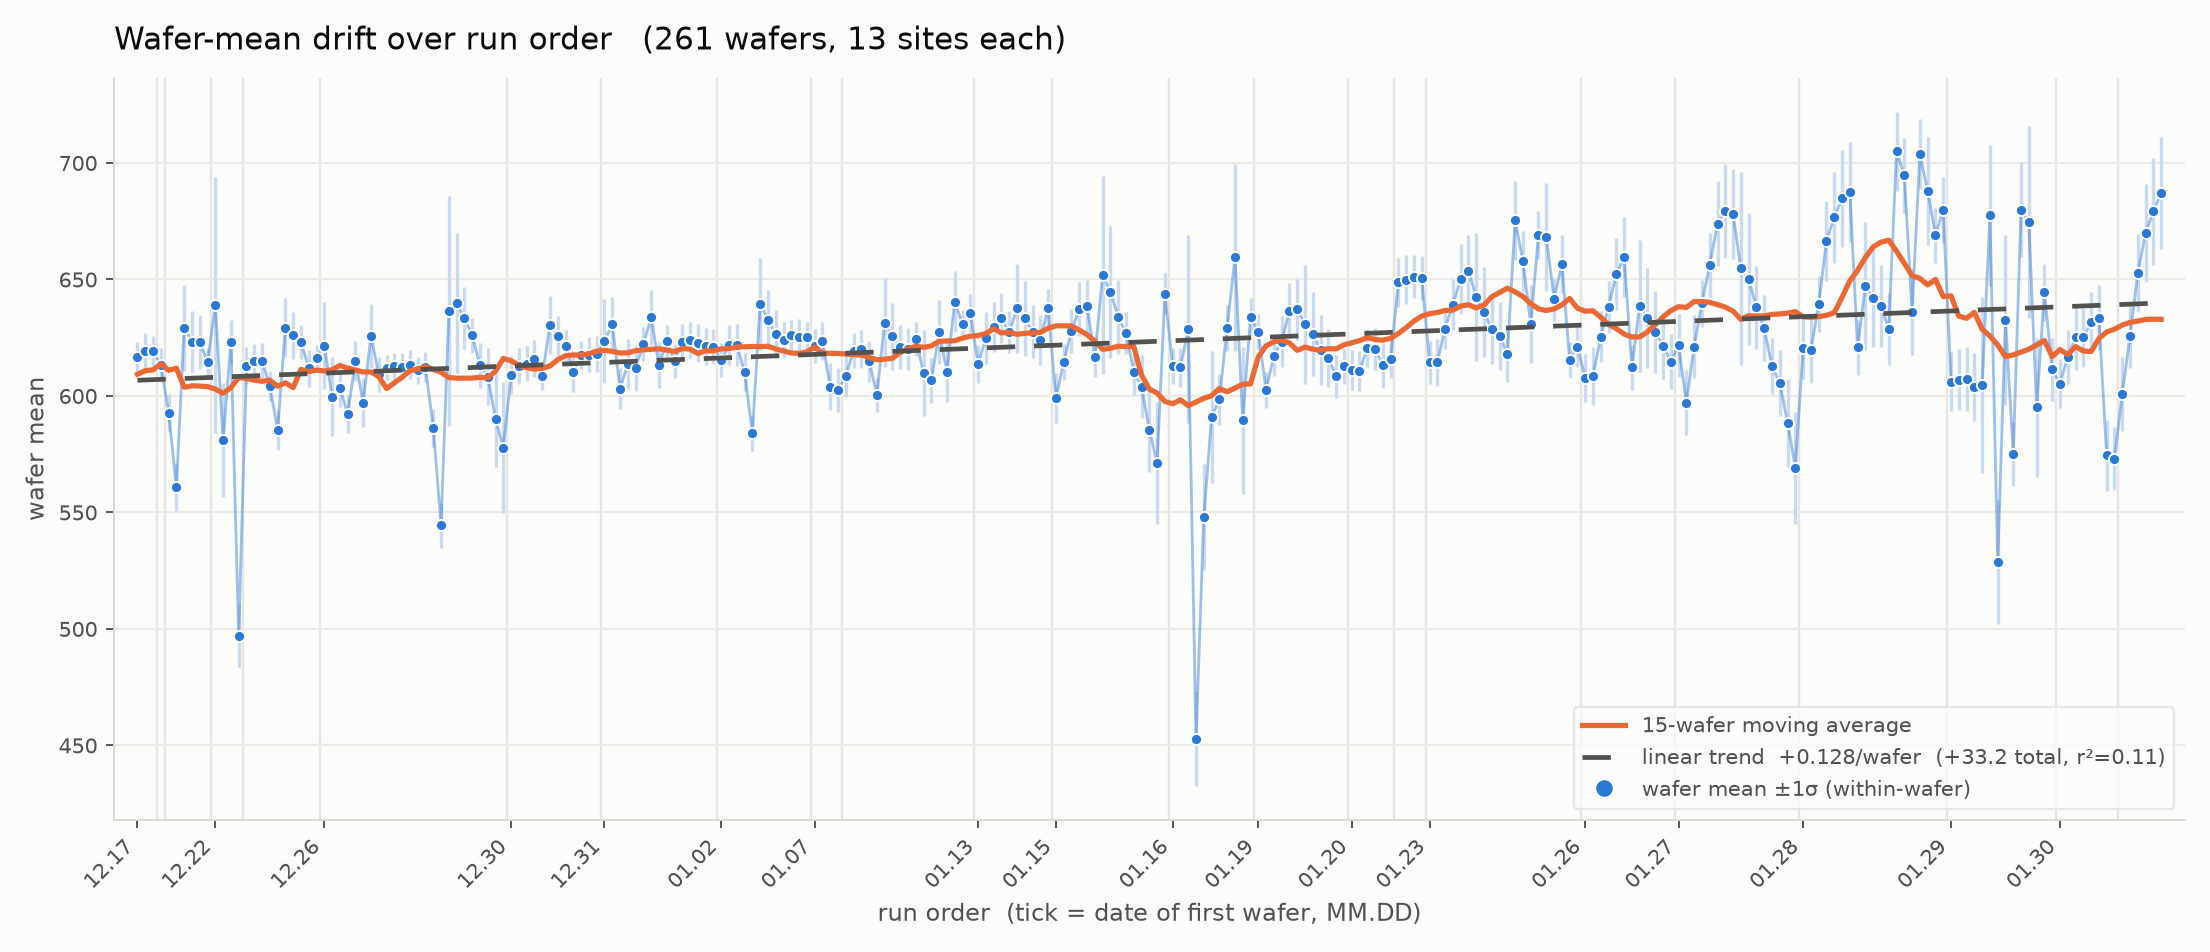
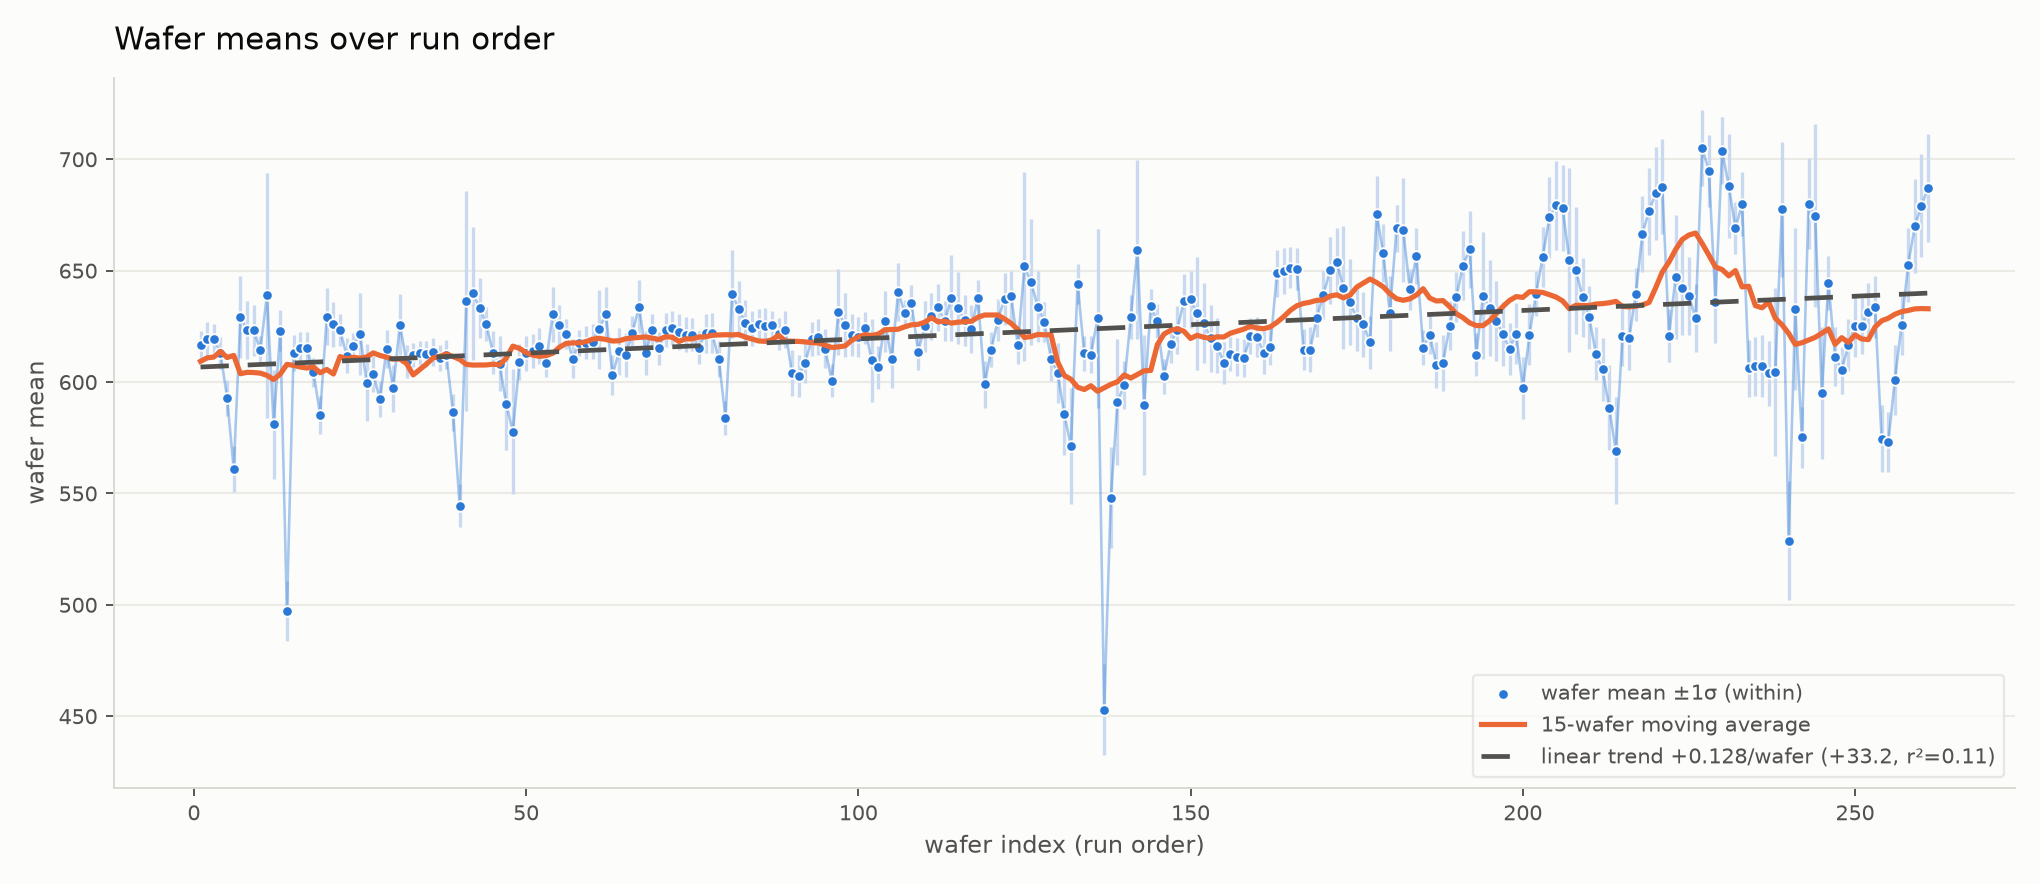
Add WiW/W2W variance decomposition with data and figures
Introduce ANOVA at the head of the document, store the measurement table as
a CSV keyed by a wf0001-style serial, drop the grouping by date, explain the
ANOVA table columns and ICC, and add a violin chart of the site values along
run order.

Claude-Session: https://claude.ai/code/session_01EmRuphkFeGWkDYDUkauFqt

diff --git a/EDA/Variability/WiW-W2W/wiw-w2w-anova.md b/EDA/Variability/WiW-W2W/wiw-w2w-anova.md
@@ -1,17 +1,25 @@
 # Within-Wafer and Wafer-to-Wafer Variance Decomposition
-Rev. 0 | Created: 2026-09-03 | Updated: 2026-09-03 12:33 CDT
+Rev. 1 | Created: 2026-09-03 | Updated: 2026-09-03 12:48 CDT
+
+> ANOVA (analysis of variance) 는 관측치의 전체 산포를 몇 개의 원인으로 나누어, 어느 원인이 얼마나 기여하는지 수치로 보이는 방법이다.
+
+측정값이 여러 층으로 묶여 있을 때 각 층이 산포에 얼마나 기여하는지는 눈으로 가려낼 수 없다. ANOVA 는 전체 제곱합을 층별 제곱합으로 쪼개어 이 물음에 답한다. 한 층 안에서 값이 흩어진 정도와 층 사이에서 평균이 벌어진 정도를 각각의 자유도로 나누어 평균제곱으로 만들고, 그 비를 F 통계량으로 삼아 층 사이의 차이가 층 안의 산포만으로 설명되는지 판정한다. 이 문서는 wafer 를 층으로 두어 measurement 산포를 within-wafer 성분과 wafer-to-wafer 성분으로 나눈다.
 
 ## 1. Data
 
-측정 자료는 261 행 13 열의 표이며, 한 행이 한 장의 wafer 이고 열 `S1`~`S13` 은 그 wafer 위의 13 개 site 이다. 행 식별자는 `<date>#<number>` 형태이므로 date 를 lot 으로 보아 24 개 lot 으로 묶었다. 결측은 없고 전체 관측치는 3393 개이다.
+측정 자료는 [marathon_13pts.csv](marathon_13pts.csv) 이며 261 행 14 열이다. 한 행이 한 장의 wafer 이고, 열 `wafer_id` 는 `wf0001` 부터 `wf0261` 까지의 일련번호로 파일의 행 순서, 곧 run order 를 나타낸다. 나머지 열 `S1`~`S13` 은 그 wafer 위의 13 개 site 이다. 결측은 없고 전체 관측치는 3393 개이다.
 
 - 전체 site 값: 평균 622.1, 표준편차 32.45, 최소 435.10, 최대 734.68.
 - Wafer 평균: 최소 452.9, 최대 705.0, 표준편차 28.70.
 - Within-wafer range: 평균 41.32, 최대 123.46.
 
-## 2. Variance Decomposition
+Wafer 를 run order 로 15 장씩 묶어 그 안의 site 값 분포를 violin 으로 그리면, 분포의 위치와 폭이 함께 움직이는 것이 보인다. 앞쪽 구간의 중앙값은 610 대에 머물다가 뒤쪽 구간에서 650 근처까지 올라가고, 아래로 길게 뻗은 꼬리는 그 구간에 값이 크게 낮은 wafer 가 섞여 있다는 뜻이다.
 
-### 2.1 One-way ANOVA by wafer
+<img src="wiw-w2w-anova_fig/site_value_violin.png" width="900" style="max-width: 100%;" alt="Fig 1">
+
+Fig 1. Distribution of site values in bins of 15 consecutive wafers along run order
+
+## 2. Variance Decomposition
 
 Wafer 를 인자로 둔 일원 ANOVA 로 wafer 간 성분과 wafer 내 성분을 나눈다.
 
@@ -22,38 +30,35 @@ Table 1. One-way ANOVA with wafer as the factor
 | Between wafer | 2,783,290 | 260 | 10,705.0 | 42.48 | ~0 |
 | Within wafer | 789,202 | 3132 | 252.0 | | |
 
-분산성분은 `sigma_within` = 15.87, `sigma_wafer` = 28.36 이고 ICC 는 0.761 이다. 즉 site 한 점의 산포 중 76.1% 가 wafer 간, 23.9% 가 wafer 내에서 온다.
+표의 각 열이 뜻하는 바는 아래와 같다.
 
-### 2.2 Nested ANOVA with lot
+- SS: sum of squares. 해당 성분이 만든 편차의 제곱합. Between wafer 는 wafer 평균이 전체 평균에서 벗어난 정도, within wafer 는 site 값이 제 wafer 평균에서 벗어난 정도.
+- df: degrees of freedom. 그 제곱합이 담은 독립한 정보의 개수. Wafer 261 장이므로 between 은 260, wafer 마다 site 13 개에서 평균 하나를 뺀 12 를 261 배 하여 within 은 3132.
+- MS: mean square. SS 를 df 로 나눈 값이며 분산의 추정치. Within 의 252.0 은 site 한 점의 산포, between 의 10,705.0 은 wafer 평균의 산포에 site 산포가 얹힌 크기.
+- F: 두 MS 의 비. 여기서는 10,705.0 / 252.0 = 42.48. wafer 사이에 차이가 없다면 1 근처에 머무는 값.
+- p: wafer 사이에 차이가 없다는 가정 아래 그만큼 큰 F 가 나올 확률. 여기서는 0 에 가까워, 차이가 없다는 가정을 버린다.
 
-Wafer 간 성분을 lot 간 (drift) 과 lot 내 wafer 간으로 다시 나눈다.
+분산성분은 `sigma_within` = 15.87, `sigma_wafer` = 28.36 이다. 앞의 것은 MS within 의 제곱근이고, 뒤의 것은 between 의 MS 에서 within 의 MS 를 빼고 site 수 13 으로 나눈 뒤 제곱근을 취한 값이다.
 
-Table 2. Nested ANOVA of lot / wafer / site
-
-| Source | SS | df | MS | F | p |
-|---|---:|---:|---:|---:|---:|
-| Lot | 871,687 | 23 | 37,899.4 | 4.70 | 2.4e-10 |
-| Wafer in lot | 1,911,603 | 237 | 8,065.8 | 32.01 | ~0 |
-| Within wafer | 789,202 | 3132 | 252.0 | | |
-
-Table 3. Variance components
+Table 2. Variance components
 
 | Component | Sigma | Variance | Share |
 |---|---:|---:|---:|
-| Lot-to-lot (drift) | 14.62 | 213.7 | 20.0% |
-| Wafer-to-wafer in lot | 24.52 | 601.1 | 56.3% |
-| Within-wafer | 15.87 | 252.0 | 23.6% |
-| Total | 32.66 | 1066.8 | 100% |
+| Wafer-to-wafer | 28.36 | 804.1 | 76.1% |
+| Within-wafer | 15.87 | 252.0 | 23.9% |
+| Total | 32.50 | 1056.1 | 100% |
 
-Drift 를 따로 떼어내도 lot 내 wafer 간 성분이 가장 크다.
+두 성분을 더한 32.50 은 section 1 의 관측 표준편차 32.45 와 거의 같으며, 차이는 성분 추정에서 온다.
+
+ICC (intraclass correlation) 는 전체 분산 중 wafer 간 분산이 차지하는 비율로, 804.1 / 1056.1 = 0.761 이다. 값이 1 에 가까울수록 같은 wafer 에서 뽑은 두 site 값이 서로 닮았다는 뜻이고, 0 에 가까울수록 어느 wafer 에서 뽑았는지가 값을 예측하는 데 도움이 되지 않는다는 뜻이다. 0.761 은 site 한 점의 산포 중 76.1% 를 그 점이 놓인 wafer 가 결정한다는 것이므로, 산포를 줄이려면 site 단위 균일도보다 wafer 단위 조건을 먼저 봐야 한다.
 
 ## 3. Drift of Wafer Means
 
-Wafer 평균을 run order 로 늘어놓으면 12.17 의 약 608 에서 02.02 의 약 640 까지 오른다. 선형 추세는 wafer 당 +0.128 이고 261 장 누적 +33.2 이며, r² = 0.11, p = 2.7e-08 이다. 이동평균을 보면 단조 상승이 아니라 01.16 부근의 급락과 01.28 부근의 봉우리 같은 lot 단위 계단이 겹쳐 있다.
+Wafer 평균을 run order 로 늘어놓으면 앞쪽의 약 608 에서 뒤쪽의 약 640 까지 오른다. 선형 추세는 wafer 당 +0.128 이고 261 장 누적 +33.2 이며, r² = 0.11, p = 2.7e-08 이다. 추세는 유의하지만 wafer 평균 변동의 11% 만 설명하며, 이동평균을 보면 단조 상승이 아니라 중간의 급락과 뒤쪽의 봉우리 같은 계단이 겹쳐 있다.
 
-<img src="wiw-w2w-anova_fig/wafer_mean_drift.png" width="900" style="max-width: 100%;" alt="Fig 1">
+<img src="wiw-w2w-anova_fig/wafer_mean_drift.png" width="900" style="max-width: 100%;" alt="Fig 2">
 
-Fig 1. Wafer means over run order with a 15-wafer moving average and a linear trend
+Fig 2. Wafer means over run order with a 15-wafer moving average and a linear trend
 
 ## 4. Cumulative Standard Deviation Check
 
@@ -65,48 +70,48 @@ Fig 1. Wafer means over run order with a 15-wafer moving average and a linear tr
 
 $$\mathrm{stdev}_n = \sqrt{\frac{\sigma_{within}^2}{13} + s_{\mu}^2(1..n)}$$
 
-첫 항 `sigma_within`²/13 = 19.38 은 site 평균화로도 없앨 수 없는 바닥이며, 그 제곱근 4.40 이 Fig 2 의 아래쪽 기준선이다. n = 261 에서 √(28.70² − 4.40²) = 28.36 이 나와 section 2.1 의 `sigma_wafer` 와 일치한다. 따라서 곡선은 아래로 4.40 에 갇히고 위로 √(`sigma_wafer`² + `sigma_within`²/13) = 28.70 으로 수렴한다.
+첫 항 `sigma_within`²/13 = 19.38 은 site 평균화로도 없앨 수 없는 바닥이며, 그 제곱근 4.40 이 Fig 3 의 아래쪽 기준선이다. n = 261 에서 √(28.70² − 4.40²) = 28.36 이 나와 section 2 의 `sigma_wafer` 와 일치한다. 따라서 곡선은 아래로 4.40 에 갇히고 위로 √(`sigma_wafer`² + `sigma_within`²/13) = 28.70 으로 수렴한다.
 
-n 만의 매끄러운 함수로는 설명되지 않는다. n ≥ 10 구간에서 상수 모형의 R² 는 0, random walk 모형의 R² 는 0.02, 선형 drift 모형의 R² 는 0.11 이며, 실제 오르내림은 lot 단위 계단이 만든다.
+n 만의 매끄러운 함수로는 설명되지 않는다. n ≥ 10 구간에서 상수 모형의 R² 는 0, random walk 모형의 R² 는 0.02, 선형 drift 모형의 R² 는 0.11 이며, 실제 오르내림은 연속한 wafer 묶음이 만드는 계단에서 온다.
 
-<img src="wiw-w2w-anova_fig/cum_stdev_full.png" width="900" style="max-width: 100%;" alt="Fig 2">
+<img src="wiw-w2w-anova_fig/cum_stdev.png" width="900" style="max-width: 100%;" alt="Fig 3">
 
-Fig 2. Cumulative standard deviation of wafer means against the floor, the asymptote, and the 1/√(13n) curve
+Fig 3. Cumulative standard deviation of wafer means against the floor, the asymptote, and the 1/√(13n) curve
 
 ## 5. Wafers with Inflated Within-Wafer Spread
 
 각 wafer 의 `s_i`² 를 pooled MS within = 251.98 과 χ² (df = 12) 로 비교해, Bonferroni 보정으로 (기준 p 값 1.9e-04) 유의한 wafer 18 장을 골랐다. 이들의 표준오차 `s_i`/√13 은 7.9 에서 15.3 으로 전체 중앙값 3.18 의 2.5 배에서 5 배이다.
 
-Table 4. Top five wafers by within-wafer standard error
+Table 3. Top five wafers by within-wafer standard error
 
 | Wafer | Mean | Sd within | SE | Worst site | Shift when the worst site is dropped |
 |---|---:|---:|---:|---|---:|
-| 2025.12.22#7 | 638.9 | 55.04 | 15.27 | S1 | 6.52 |
-| 2025.12.26#18 | 636.4 | 49.52 | 13.73 | S1 | 6.35 |
-| 2026.01.15#7 | 651.8 | 42.39 | 11.76 | S1 | 5.48 |
-| 2026.01.27#16 | 654.7 | 41.36 | 11.47 | S1 | 5.35 |
-| 2026.01.29#11 | 674.5 | 41.12 | 11.41 | S1 | 5.01 |
+| wf0011 | 638.9 | 55.04 | 15.27 | S1 | 6.52 |
+| wf0041 | 636.4 | 49.52 | 13.73 | S1 | 6.35 |
+| wf0125 | 651.8 | 42.39 | 11.76 | S1 | 5.48 |
+| wf0207 | 654.7 | 41.36 | 11.47 | S1 | 5.35 |
+| wf0244 | 674.5 | 41.12 | 11.41 | S1 | 5.01 |
 
-대부분 S1 또는 S2 한 점이 원인이어서, 그 site 를 빼면 wafer 평균이 4 에서 6.5 만큼 움직인다. 이 이동폭은 `sigma_wafer` = 28.36 에 비하면 작으므로, 이 wafer 들을 빼도 wafer-to-wafer 가 지배하는 구조는 바뀌지 않는다.
+Table 3 의 다섯 장은 모두 S1 이 원인이고, 18 장 전체로는 S1 또는 S2 한 점이 원인이다. 그 site 를 빼면 wafer 평균이 4 에서 6.5 만큼 움직인다. 이 이동폭은 `sigma_wafer` = 28.36 에 비하면 작으므로, 이 wafer 들을 빼도 wafer-to-wafer 가 지배하는 구조는 바뀌지 않는다.
 
-<img src="wiw-w2w-anova_fig/wafer_mean_drift_flagged.png" width="900" style="max-width: 100%;" alt="Fig 3">
+<img src="wiw-w2w-anova_fig/wafer_mean_flagged.png" width="900" style="max-width: 100%;" alt="Fig 4">
 
-Fig 3. Wafer means with the 18 wafers whose within-wafer variance is inflated
+Fig 4. Wafer means with the 18 wafers whose within-wafer variance is inflated
 
 ## 6. Conclusion
 
+- Site 한 점 기준 분산 배분: wafer-to-wafer 76.1%, within-wafer 23.9%, ICC 0.761.
 - Wafer 평균 분산 28.70² = 823.5 중 28.36² = 804.1 (97.6%) 이 wafer 고유 수준, 19.38 (2.4%) 이 site 평균화 후 남는 within 기여.
-- Site 한 점 기준으로는 within 이 전체 분산의 23.6%, wafer-to-wafer 안에 lot 간 drift 20.0% 포함.
-- 산포 축소의 우선 대상: wafer 단위 조건, 그 다음 lot drift.
+- 산포 축소의 우선 대상: wafer 단위 조건.
 - `sigma_total`/√13 이나 `sigma_total`/√(13n) 은 이 자료의 wafer 평균 산포를 설명하지 못함.
 
 ---
 
 ## Appendix A. Terminology
 
-- **ICC**: intraclass correlation. 전체 분산 중 group 간 분산이 차지하는 비율.
-- **lot**: 같은 date 를 가진 wafer 묶음. 이 자료에서는 행 식별자의 date 부분으로 정의.
-- **run order**: 자료 파일의 행 순서. date 순으로 정렬되어 있어 시간 축으로 사용.
+- **ANOVA**: analysis of variance. 전체 제곱합을 원인별 제곱합으로 나누고, 각각을 자유도로 나눈 평균제곱의 비로 원인의 유의성을 판정하는 방법.
+- **ICC**: intraclass correlation. 전체 분산 중 group 간 분산이 차지하는 비율. 같은 group 에서 뽑은 두 관측치가 얼마나 닮았는지를 0 에서 1 사이로 나타내며, 이 문서의 group 은 wafer 이다.
+- **run order**: 자료 파일의 행 순서. 측정 순서를 따르므로 시간 축으로 사용.
 - **site**: 한 wafer 위의 측정 지점. 열 `S1`~`S13` 에 해당.
 - **w2w**: wafer-to-wafer. wafer 사이의 변동.
 - **WiW**: within-wafer. 한 wafer 안 site 사이의 변동.
